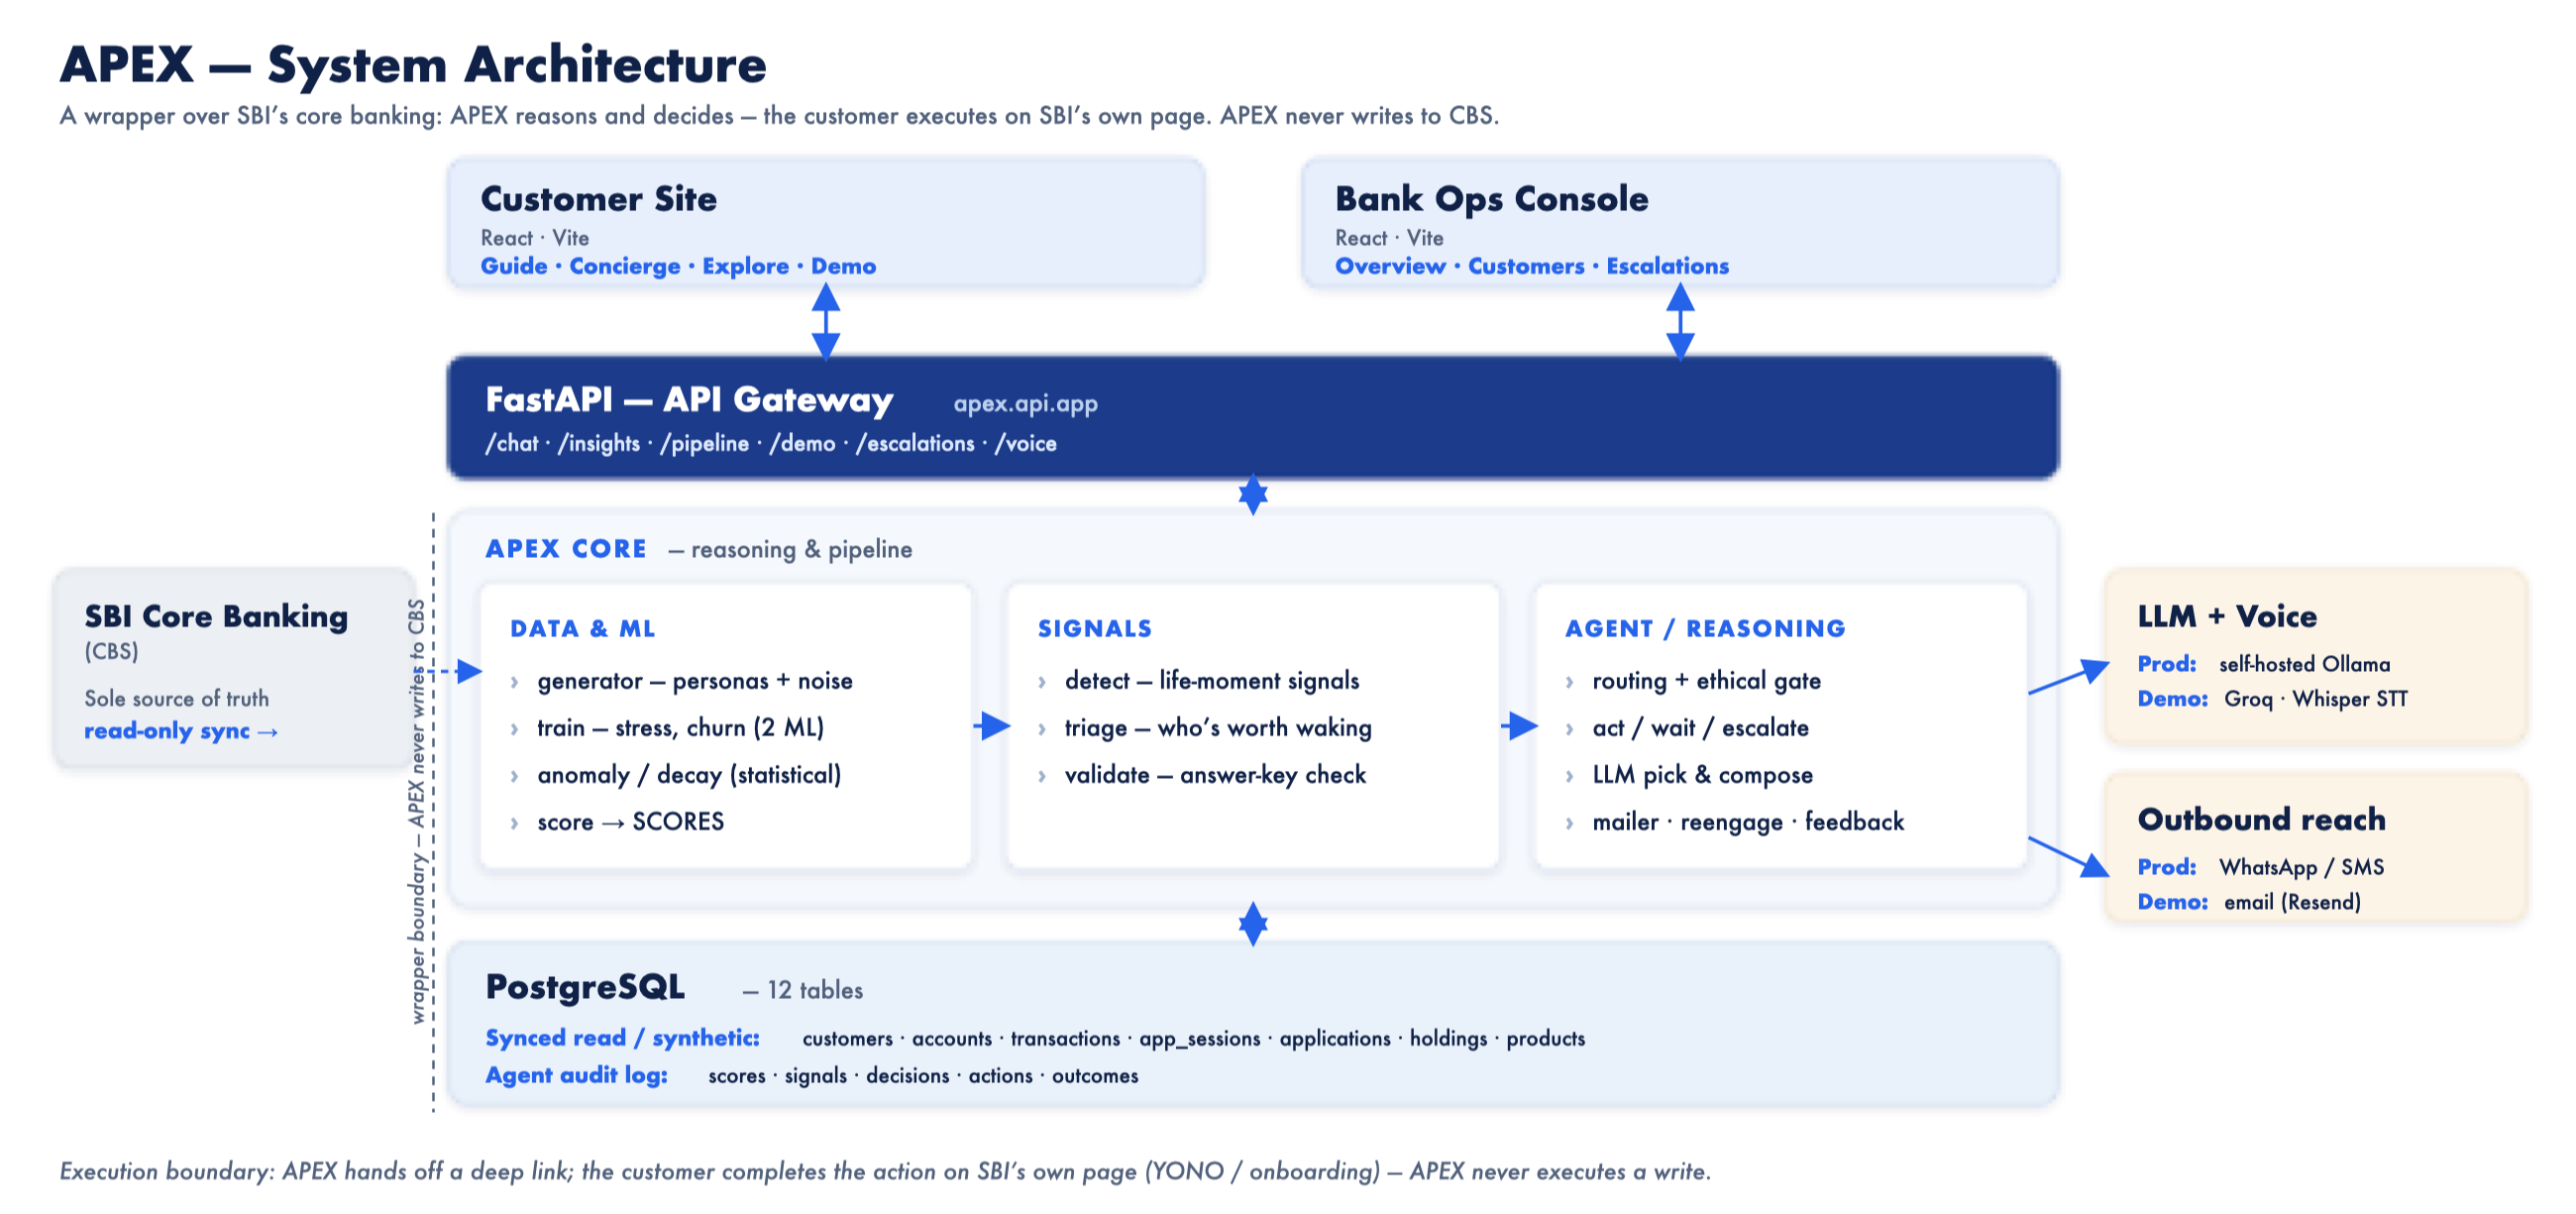
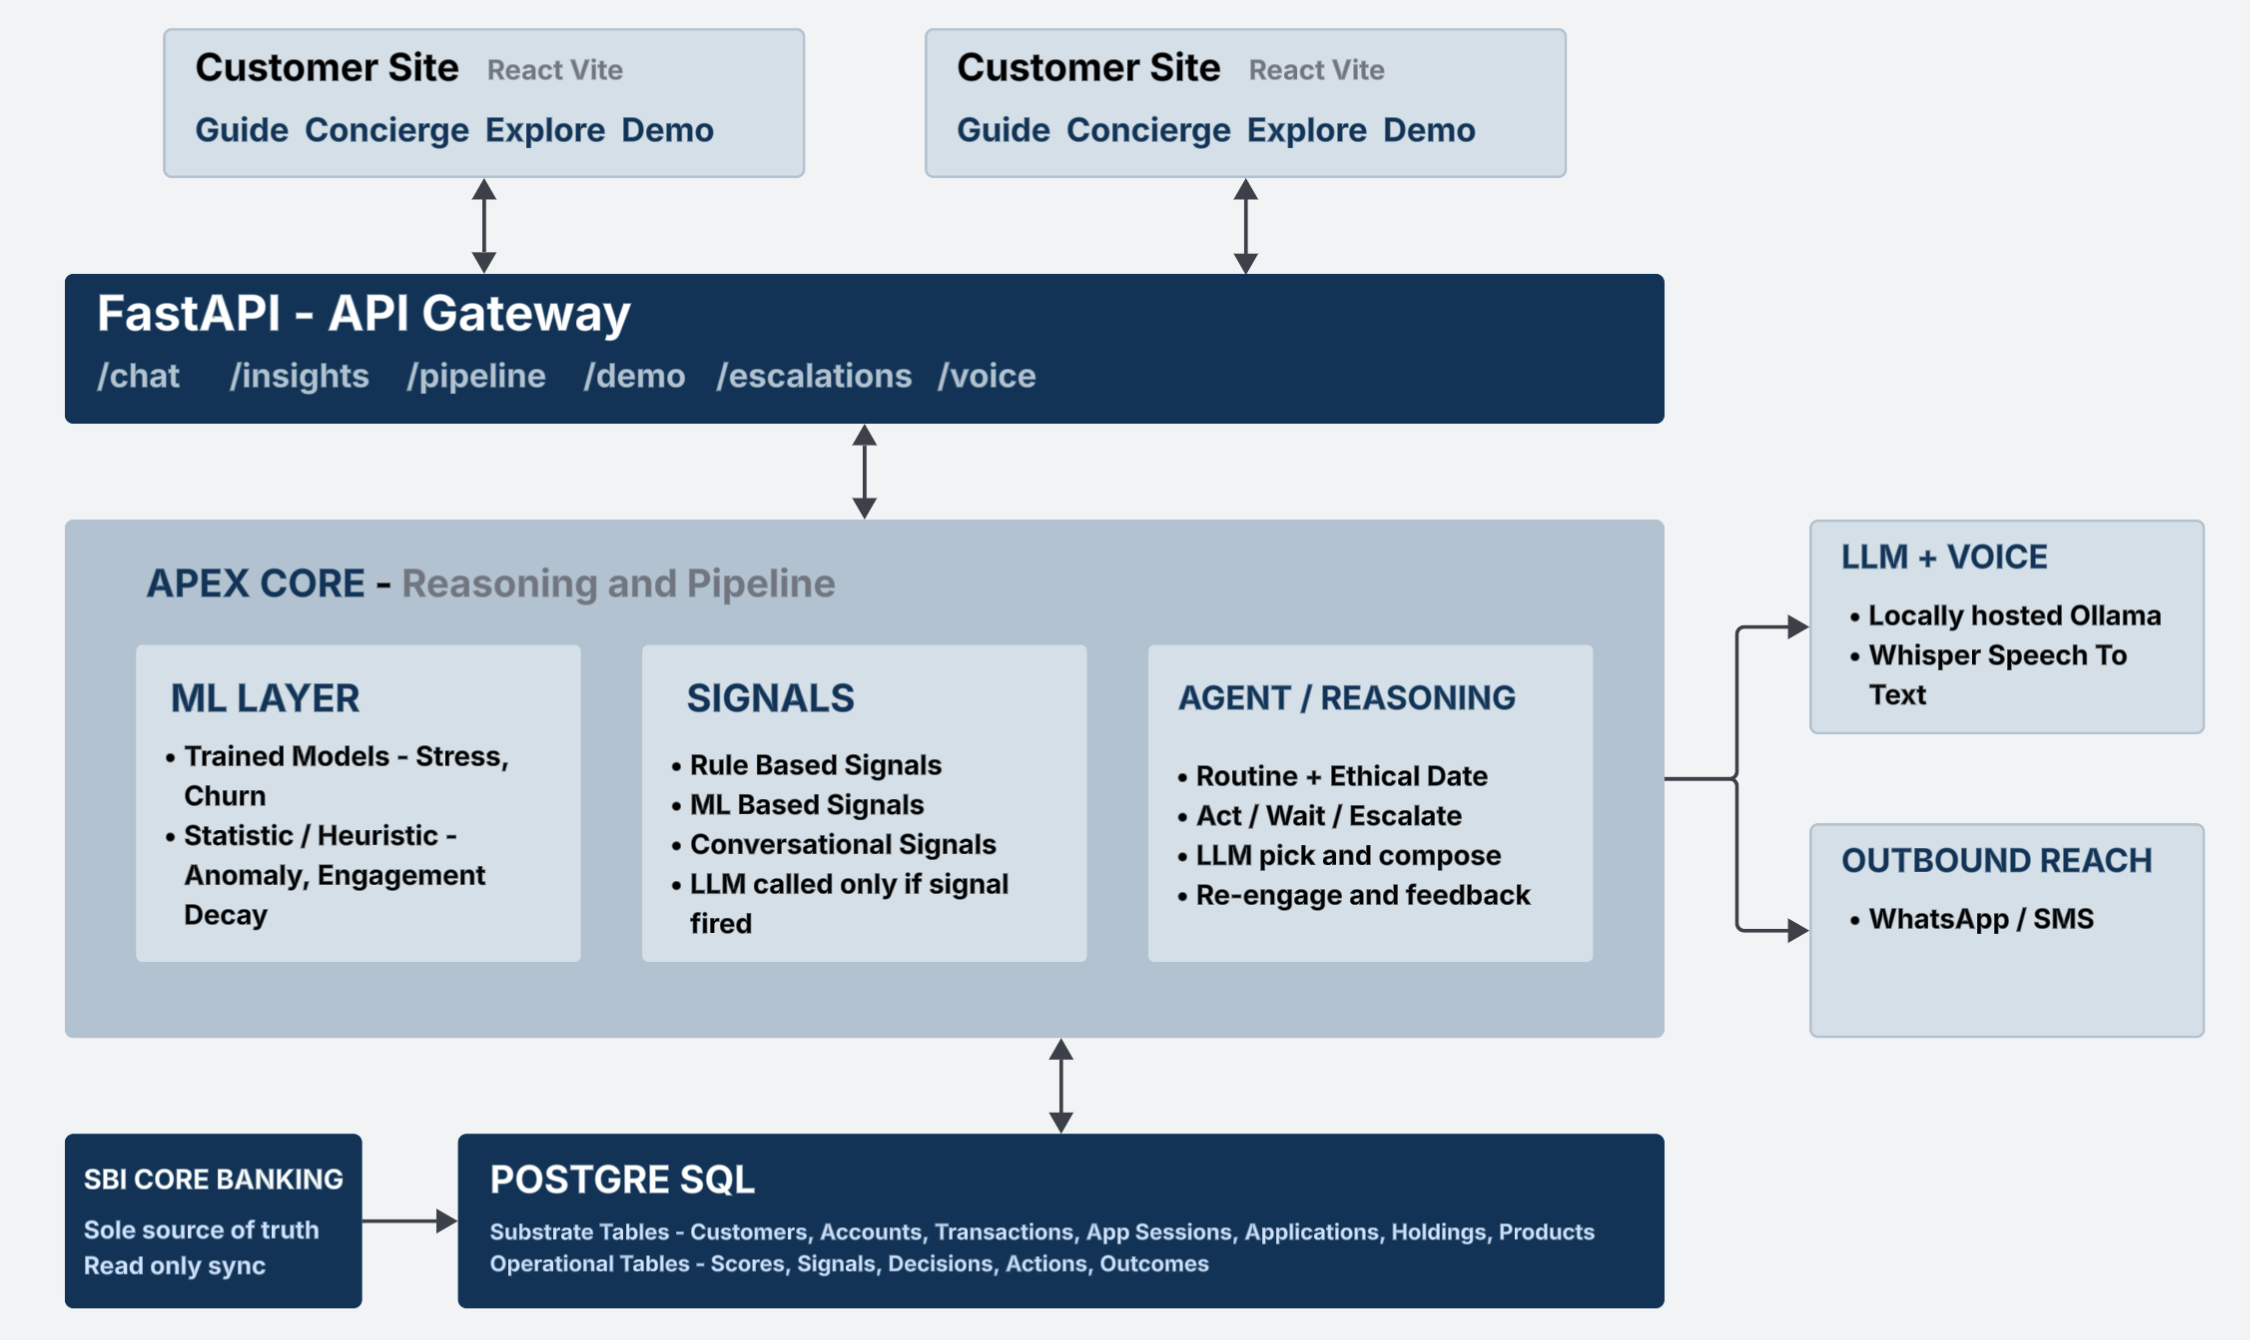
Readme + llm changes

diff --git a/backend/apex/agent/voice.py b/backend/apex/agent/voice.py
@@ -1,16 +1,41 @@
-"""Voice — speech-to-text via Groq Whisper (mode-agnostic; used by Guide and Concierge).
+"""Voice — speech-to-text (mode-agnostic; used by Guide and Concierge).
 
-Reuses the project's Groq key — no separate voice provider. Text-to-speech is done browser-side
-in the frontend.
+Two backends, chosen by config.USE_LOCAL_WHISPER (which tracks LLM_PROVIDER):
+  • local  → in-process faster-whisper. No network, no key, no rate limits. The model is
+             downloaded once on first use and cached in-process for the life of the server.
+  • hosted → Groq Whisper (reuses the project's Groq key).
+Text-to-speech is done browser-side in the frontend.
 """
 from __future__ import annotations
 
-from ..config import GROQ_API_KEY, GROQ_WHISPER_MODEL
+import io
+
+from ..config import (
+    GROQ_API_KEY, GROQ_WHISPER_MODEL, LOCAL_WHISPER_MODEL, USE_LOCAL_WHISPER,
+)
 from ._shared import get_client
+
+_whisper = None
+
+
+def _local_model():
+    """Lazily load + cache the faster-whisper model (heavy: load once, reuse forever)."""
+    global _whisper
+    if _whisper is None:
+        from faster_whisper import WhisperModel
+        # int8 on CPU keeps memory/latency reasonable on a laptop; swap to "cuda" if available.
+        _whisper = WhisperModel(LOCAL_WHISPER_MODEL, device="cpu", compute_type="int8")
+    return _whisper
 
 
 def transcribe(filename: str, data: bytes) -> str:
-    """Speech-to-text. Returns '' on any failure (no key, API error)."""
+    """Speech-to-text. Returns '' on any failure (no backend, decode/API error)."""
+    if USE_LOCAL_WHISPER:
+        try:
+            segments, _ = _local_model().transcribe(io.BytesIO(data))
+            return "".join(s.text for s in segments).strip()
+        except Exception:  # noqa: BLE001
+            return ""
     if not GROQ_API_KEY:
         return ""
     try:

diff --git a/backend/apex/agent/_shared.py b/backend/apex/agent/_shared.py
@@ -1,7 +1,12 @@
-"""Shared Groq helpers used across the agent modules (the single client + language names)."""
+"""Shared LLM helpers used across the agent modules (the single client + language names).
+
+The client is provider-agnostic: both the Groq SDK and the OpenAI SDK expose the same
+`chat.completions.create` surface, and Ollama serves an OpenAI-compatible endpoint — so every
+agent call site works unchanged whichever provider config.LLM_PROVIDER selects.
+"""
 from __future__ import annotations
 
-from ..config import GROQ_API_KEY
+from ..config import GROQ_API_KEY, LLM_PROVIDER, OLLAMA_BASE_URL
 
 LANG_NAMES = {"en": "English", "hi": "Hindi", "ta": "Tamil", "te": "Telugu", "bn": "Bengali"}
 
@@ -9,14 +14,19 @@ _client = None
 
 
 def get_client():
-    """Lazily-created Groq client, shared by every agent module.
+    """Lazily-created, shared LLM client — hosted Groq or local Ollama, per LLM_PROVIDER.
 
-    max_retries: the SDK honors Groq's 429 Retry-After header and backs off, so a brief
-    free-tier rate-limit spike (e.g. right after a full pipeline run) is retried transparently
-    instead of failing the first request.
+    Ollama (LLM_PROVIDER=ollama): a local OpenAI-compatible server — no API key, no rate limits.
+    Groq: max_retries honors the 429 Retry-After header and backs off, so a brief free-tier
+    rate-limit spike (e.g. right after a full pipeline run) is retried instead of failing.
     """
     global _client
     if _client is None:
-        from groq import Groq
-        _client = Groq(api_key=GROQ_API_KEY, max_retries=4)
+        if LLM_PROVIDER == "ollama":
+            from openai import OpenAI
+            # api_key is required non-empty by the SDK but ignored by Ollama.
+            _client = OpenAI(base_url=OLLAMA_BASE_URL, api_key="ollama", max_retries=2)
+        else:
+            from groq import Groq
+            _client = Groq(api_key=GROQ_API_KEY, max_retries=4)
     return _client

diff --git a/backend/apex/config.py b/backend/apex/config.py
@@ -25,10 +25,31 @@ RANDOM_SEED = int(os.getenv("APEX_RANDOM_SEED", "42"))
 # the customer's stored address (so the demo never emails real third parties).
 DEMO_EMAIL = os.getenv("APEX_DEMO_EMAIL")
 
+# ── LLM provider ─────────────────────────────────────────────────────────────
+# "groq"   → hosted Groq inference (fast, but the free tier rate-limits after a few calls).
+# "ollama" → fully local, OpenAI-compatible Ollama server: no key, no rate limits.
+LLM_PROVIDER = os.getenv("LLM_PROVIDER", "groq").lower()
+
 # Agentic loop — Groq LLM (reasoning narrative + customer message generation).
 GROQ_API_KEY = os.getenv("GROQ_API_KEY")
 GROQ_MODEL = os.getenv("GROQ_MODEL", "llama-3.3-70b-versatile")
 GROQ_WHISPER_MODEL = os.getenv("GROQ_WHISPER_MODEL", "whisper-large-v3")  # voice STT
+
+# Local Ollama (OpenAI-compatible endpoint at /v1). The chat model MUST support tool-calling
+# for Guide/Concierge — qwen2.5 and llama3.1 do. Pull one first: `ollama pull qwen2.5:7b`.
+OLLAMA_BASE_URL = os.getenv("OLLAMA_BASE_URL", "http://localhost:11434/v1")
+OLLAMA_MODEL = os.getenv("OLLAMA_MODEL", "qwen2.5:7b")
+
+# Local Whisper (in-process faster-whisper) — used for voice STT when LLM_PROVIDER == "ollama".
+# Sizes: tiny / base / small / medium / large-v3 (bigger = more accurate, slower, more RAM).
+LOCAL_WHISPER_MODEL = os.getenv("LOCAL_WHISPER_MODEL", "base")
+
+# Resolved from the provider so the agent call sites stay provider-agnostic.
+_USE_OLLAMA = LLM_PROVIDER == "ollama"
+CHAT_MODEL = OLLAMA_MODEL if _USE_OLLAMA else GROQ_MODEL
+USE_LOCAL_WHISPER = _USE_OLLAMA  # local STT rides along with the local LLM stack
+# True when the chat LLM is usable: local Ollama needs no key; hosted Groq needs one.
+LLM_READY = _USE_OLLAMA or bool(GROQ_API_KEY)
 
 # Analyser outbound email (Resend). In non-prod ALL mail routes to DEMO_EMAIL.
 # Resend's [email redacted] sender works in test mode to your own account email.

diff --git a/backend/apex/agent/guide.py b/backend/apex/agent/guide.py
@@ -23,7 +23,7 @@ from typing import Any, TypedDict
 from langgraph.graph import END, StateGraph
 from langgraph.errors import GraphRecursionError
 
-from ..config import GROQ_API_KEY, GROQ_MODEL
+from ..config import CHAT_MODEL, LLM_READY
 from ..database.models import Application, Product
 from ._shared import get_client
 
@@ -56,7 +56,8 @@ you don't know it yet, mirror the language they write in.
 
 Use your tools — never guess:
 - To talk about what SBI offers, call list_products / get_product_details. Only ever share the \
-official link a tool returns; NEVER invent or type a URL yourself.
+official link a tool returns; NEVER invent or type a URL yourself. \
+- Give the official link to the customer every time you mention a product, so they can click through to the real SBI page. \
 - For "what documents do I need", call get_required_documents — never list documents from memory.
 - {identity_line}
 
@@ -184,7 +185,7 @@ class GState(TypedDict, total=False):
 def node_agent(state: GState) -> dict:
     force_answer = state.get("tool_rounds", 0) >= MAX_TOOL_ROUNDS
     resp = get_client().chat.completions.create(
-        model=GROQ_MODEL, temperature=0.4,
+        model=CHAT_MODEL, temperature=0.4,
         tool_choice="none" if force_answer else "auto",
         tools=TOOLS_SCHEMA, messages=state["messages"],
     )
@@ -229,8 +230,8 @@ guide_app = _build()
 
 
 def reply(messages: list[dict], db, identity: str | None = None) -> str:
-    if not GROQ_API_KEY:
-        return "The assistant isn't configured yet (missing GROQ_API_KEY)."
+    if not LLM_READY:
+        return "The assistant isn't configured yet (set LLM_PROVIDER=ollama, or add GROQ_API_KEY)."
     system = GUIDE_SYSTEM.format(identity_line=_IDENTITY_KNOWN if identity else _IDENTITY_ANON)
     convo = [{"role": "system", "content": system}]
     convo += [{"role": m["role"], "content": m["content"]}

diff --git a/backend/apex/agent/intent.py b/backend/apex/agent/intent.py
@@ -18,7 +18,7 @@ from __future__ import annotations
 
 import json
 
-from ..config import GROQ_API_KEY, GROQ_MODEL
+from ..config import CHAT_MODEL, LLM_READY
 from ..database.db import SessionLocal
 from ..database.models import Signal
 from ._shared import get_client
@@ -43,7 +43,7 @@ _SYSTEM = (
 
 def _extract(messages: list[dict]) -> dict:
     """One best-effort LLM pass → {"intents": [...], "vulnerable": bool}. {} on any failure."""
-    if not GROQ_API_KEY:
+    if not LLM_READY:
         return {}
     convo = "\n".join(f"{m['role']}: {m['content']}"
                       for m in messages if m.get("role") in ("user", "assistant"))
@@ -51,7 +51,7 @@ def _extract(messages: list[dict]) -> dict:
         return {}
     try:
         resp = get_client().chat.completions.create(
-            model=GROQ_MODEL, temperature=0.1,
+            model=CHAT_MODEL, temperature=0.1,
             response_format={"type": "json_object"},
             messages=[{"role": "system", "content": _SYSTEM},
                       {"role": "user", "content": convo}],

diff --git a/backend/apex/agent/llm.py b/backend/apex/agent/llm.py
@@ -9,7 +9,7 @@ from __future__ import annotations
 
 import json
 
-from ..config import GROQ_API_KEY, GROQ_MODEL
+from ..config import CHAT_MODEL, LLM_READY
 from ._shared import get_client
 from .prompts import (
     SYSTEM_PROMPT, build_explain_prompt, build_reengage_prompt, build_select_prompt,
@@ -17,12 +17,12 @@ from .prompts import (
 
 
 def _chat(user: str, temperature: float = 0.4, json_mode: bool = False) -> str:
-    if not GROQ_API_KEY:
+    if not LLM_READY:
         return ""
     try:
         kwargs = {"response_format": {"type": "json_object"}} if json_mode else {}
         resp = get_client().chat.completions.create(
-            model=GROQ_MODEL,
+            model=CHAT_MODEL,
             temperature=temperature,
             messages=[
                 {"role": "system", "content": SYSTEM_PROMPT},

diff --git a/backend/apex/agent/concierge.py b/backend/apex/agent/concierge.py
@@ -18,7 +18,7 @@ from typing import Any, TypedDict
 from langgraph.graph import END, StateGraph
 from langgraph.errors import GraphRecursionError
 
-from ..config import GROQ_MODEL
+from ..config import CHAT_MODEL
 from ..database.db import SessionLocal
 from ..database.models import Account, Customer, Holding, Product, Score, Signal, Transaction
 from . import guardrails
@@ -188,7 +188,7 @@ def node_agent(state: CState) -> dict:
     # prevents a runaway tool-calling loop (the GraphRecursionError otherwise).
     force_answer = state.get("tool_rounds", 0) >= MAX_TOOL_ROUNDS
     resp = get_client().chat.completions.create(
-        model=GROQ_MODEL, temperature=0.3,
+        model=CHAT_MODEL, temperature=0.3,
         tool_choice="none" if force_answer else "auto",
         tools=TOOLS_SCHEMA, messages=state["messages"],
     )